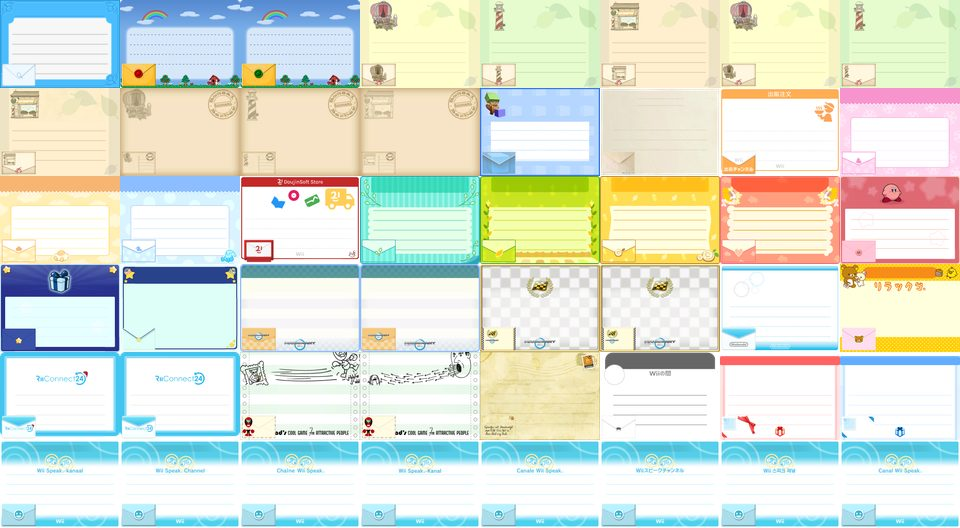
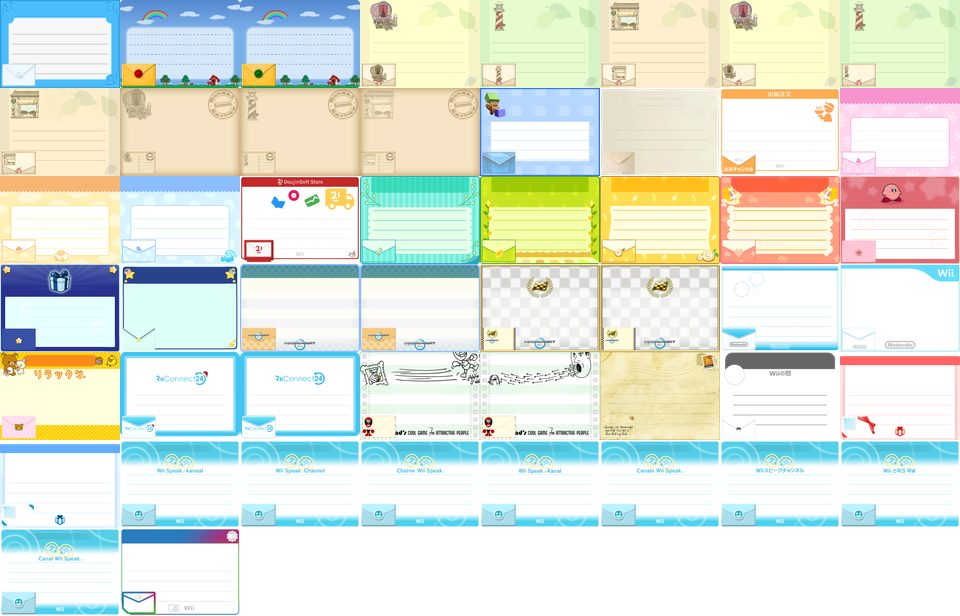
Update the letterhead gallery sheet for the Wii and Wii U apps

diff --git a/wiiu/source/letterhead_ids.h b/wiiu/source/letterhead_ids.h
@@ -36,6 +36,7 @@ static const char *const LH_SHEET_IDS[] = {
     "mario-kart-wii-tournament-international",
     "mario-kart-wii-tournament-japan",
     "nintendo-channel",
+    "nintendo-channel-2",
     "relaxuma-minna-de-goyururi-seikatsu",
     "riiconnect24-christmas",
     "riiconnect24-normal",
@@ -53,5 +54,6 @@ static const char *const LH_SHEET_IDS[] = {
     "wii-speak-channel-japanese",
     "wii-speak-channel-korean",
     "wii-speak-channel-spanish",
+    "wiilink",
 };
 #define LH_SHEET_COUNT (int)(sizeof LH_SHEET_IDS / sizeof LH_SHEET_IDS[0])

diff --git a/wii/source/letterhead_ids.h b/wii/source/letterhead_ids.h
@@ -36,7 +36,6 @@ static const char *const LH_SHEET_IDS[] = {
     "mario-kart-wii-tournament-international",
     "mario-kart-wii-tournament-japan",
     "nintendo-channel",
-    "nintendo-channel-1",
     "nintendo-channel-2",
     "relaxuma-minna-de-goyururi-seikatsu",
     "riiconnect24-christmas",
